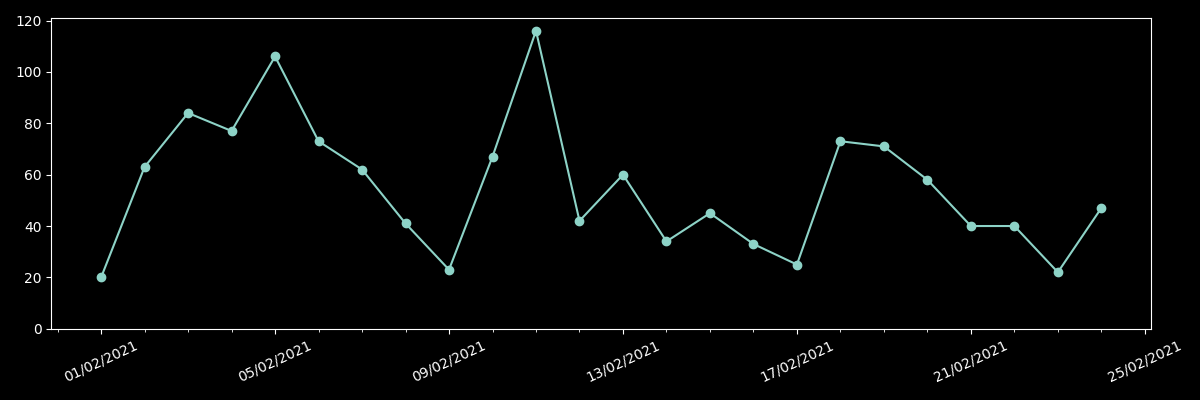
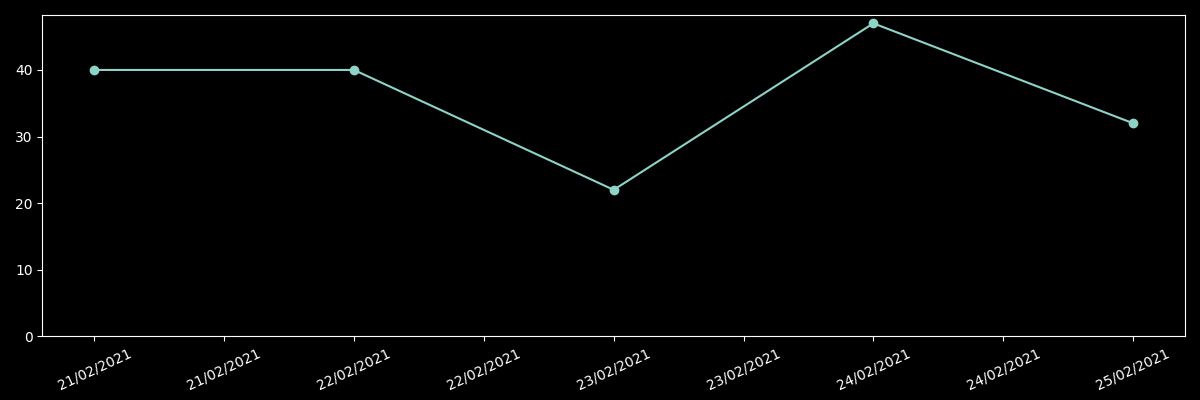
Almost done with counties

diff --git a/templates/datasearchcounty.html b/templates/datasearchcounty.html
@@ -5,6 +5,71 @@
 {% endblock %}
 
 {% block body %}
+<script>
+    var countiesByState = {
+        AL: ["Autauga County","Baldwin County","Barbour County","Bibb County","Blount County","Butler County","Calhoun County","Chambers County","Cherokee County","Chilton County","Choctaw County","Clay County","Cleburne County","Coffee County","Colbert County","Covington County","Crenshaw County","Cullman County","Dale County","Dallas County","DeKalb County","Elmore County","Escambia County","Etowah County","Fayette County","Franklin County","Geneva County","Hale County","Houston County","Jackson County","Jefferson County","Lauderdale County","Lawrence County","Lee County","Limestone County","Madison County","Marengo County","Marion County","Marshall County","Mobile County","Monroe County","Montgomery County","Morgan County","Pickens County","Pike County","Randolph County","Russell County","St. Clair County","Shelby County","Talladega County","Tallapoosa County","Tuscaloosa County","Walker County","Washington County","Winston County"],
+        AK: ["Anchorage Municipality","Bethel Census Area","Fairbanks North Star Borough","Kenai Peninsula Borough","Ketchikan Gateway Borough","Matanuska-Susitna Borough","Nome Census Area","Prince of Wales-Hyder Census Area","Sitka City and Borough"],
+        AZ: ["Apache County","Cochise County","Coconino County","Gila County","Graham County","La Paz County","Maricopa County","Mohave County","Navajo County","Pima County","Pinal County","Santa Cruz County","Yavapai County","Yuma County"],
+        AR: ["Arkansas County","Ashley County","Baxter County","Benton County","Boone County","Bradley County","Carroll County","Chicot County","Clark County","Clay County","Cleburne County","Columbia County","Craighead County","Crawford County","Crittenden County","Cross County","Dallas County","Drew County","Faulkner County","Franklin County","Fulton County","Garland County","Grant County","Greene County","Hempstead County","Hot Spring County","Howard County","Independence County","Izard County","Jackson County","Jefferson County","Johnson County","Lawrence County","Lincoln County","Little River County","Logan County","Lonoke County","Marion County","Miller County","Mississippi County","Montgomery County","Nevada County","Newton County","Ouachita County","Perry County","Phillips County","Poinsett County","Polk County","Pope County","Pulaski County","Randolph County","Saline County","Scott County","Searcy County","Sebastian County","Sharp County","Stone County","Union County","Washington County","White County","Yell County"],
+        CA: ["Alameda County","Amador County","Butte County","Calaveras County","Colusa County","Contra Costa County","El Dorado County","Fresno County","Glenn County","Humboldt County","Imperial County","Inyo County","Kern County","Kings County","Lake County","Lassen County","Los Angeles County","Madera County","Marin County","Mendocino County","Merced County","Monterey County","Napa County","Nevada County","Orange County","Placer County","Riverside County","Sacramento County","San Benito County","San Bernardino County","San Diego County","San Francisco County","San Joaquin County","San Luis Obispo County","San Mateo County","Santa Barbara County","Santa Clara County","Santa Cruz County","Shasta County","Siskiyou County","Solano County","Sonoma County","Stanislaus County","Sutter County","Tehama County","Tulare County","Tuolumne County","Ventura County","Yolo County","Yuba County"],
+        CO: ["Adams County","Alamosa County","Arapahoe County","Bent County","Boulder County","Broomfield County","Chaffee County","Delta County","Denver County","Douglas County","El Paso County","Fremont County","Garfield County","Huerfano County","Jefferson County","La Plata County","Larimer County","Logan County","Mesa County","Moffat County","Montrose County","Morgan County","Otero County","Prowers County","Pueblo County","Routt County","Weld County","Yuma County"],
+        CT: ["Fairfield County","Hartford County","Litchfield County","Middlesex County","New Haven County","New London County","Tolland County","Windham County"],
+        DE: ["Kent County","New Castle County","Sussex County"],
+        DC: ["District of Columbia"],
+        FL: ["Alachua County","Baker County","Bay County","Brevard County","Broward County","Calhoun County","Charlotte County","Citrus County","Clay County","Collier County","Columbia County","DeSoto County","Dixie County","Duval County","Escambia County","Flagler County","Franklin County","Hendry County","Hernando County","Highlands County","Hillsborough County","Holmes County","Indian River County","Jackson County","Lake County","Lee County","Leon County","Levy County","Madison County","Manatee County","Marion County","Martin County","Miami-Dade County","Monroe County","Nassau County","Okaloosa County","Okeechobee County","Orange County","Osceola County","Palm Beach County","Pasco County","Pinellas County","Polk County","Putnam County","St. Johns County","St. Lucie County","Santa Rosa County","Sarasota County","Seminole County","Sumter County","Suwannee County","Union County","Volusia County","Walton County","Washington County"],
+        GA: ["Appling County","Bacon County","Baldwin County","Barrow County","Bartow County","Ben Hill County","Berrien County","Bibb County","Bleckley County","Brooks County","Bulloch County","Burke County","Butts County","Camden County","Candler County","Carroll County","Catoosa County","Chatham County","Cherokee County","Clarke County","Clayton County","Cobb County","Coffee County","Colquitt County","Columbia County","Cook County","Coweta County","Crisp County","Decatur County","DeKalb County","Dodge County","Dougherty County","Douglas County","Early County","Effingham County","Elbert County","Emanuel County","Evans County","Fannin County","Fayette County","Floyd County","Forsyth County","Franklin County","Fulton County","Gilmer County","Glynn County","Gordon County","Grady County","Greene County","Gwinnett County","Habersham County","Hall County","Hancock County","Hart County","Henry County","Houston County","Jackson County","Jasper County","Jeff Davis County","Jefferson County","Jenkins County","Johnson County","Lamar County","Lanier County","Laurens County","Liberty County","Lowndes County","Lumpkin County","McDuffie County","Meriwether County","Mitchell County","Monroe County","Murray County","Muscogee County","Newton County","Oconee County","Paulding County","Peach County","Pickens County","Pike County","Polk County","Pulaski County","Putnam County","Rabun County","Richmond County","Rockdale County","Spalding County","Stephens County","Sumter County","Tattnall County","Thomas County","Tift County","Toombs County","Towns County","Troup County","Union County","Upson County","Walker County","Walton County","Ware County","Washington County","Wayne County","White County","Whitfield County","Worth County"],
+        HI: ["Hawaii County","Honolulu County","Maui County"],
+        ID: ["Ada County","Bannock County","Bear Lake County","Bingham County","Bonner County","Bonneville County","Camas County","Canyon County","Gem County","Gooding County","Idaho County","Kootenai County","Madison County","Minidoka County","Nez Perce County","Owyhee County","Shoshone County","Twin Falls County","Washington County"],
+        IL: ["Adams County","Bond County","Boone County","Bureau County","Carroll County","Cass County","Champaign County","Christian County","Clark County","Clay County","Clinton County","Coles County","Cook County","Crawford County","Cumberland County","DeKalb County","De Witt County","DuPage County","Edgar County","Effingham County","Fayette County","Ford County","Franklin County","Fulton County","Greene County","Grundy County","Hamilton County","Hancock County","Henderson County","Henry County","Iroquois County","Jackson County","Jefferson County","Jersey County","Jo Daviess County","Kane County","Kankakee County","Kendall County","Knox County","Lake County","La Salle County","Lawrence County","Lee County","Livingston County","Logan County","McDonough County","McHenry County","McLean County","Macon County","Macoupin County","Madison County","Marion County","Mason County","Massac County","Menard County","Mercer County","Monroe County","Montgomery County","Morgan County","Ogle County","Peoria County","Perry County","Piatt County","Pike County","Randolph County","Richland County","Rock Island County","St. Clair County","Saline County","Sangamon County","Schuyler County","Stark County","Stephenson County","Tazewell County","Union County","Vermilion County","Warren County","Washington County","Wayne County","White County","Whiteside County","Will County","Williamson County","Winnebago County","Woodford County"],
+        IN: ["Adams County","Allen County","Bartholomew County","Blackford County","Boone County","Brown County","Cass County","Clark County","Clay County","Clinton County","Daviess County","Dearborn County","Decatur County","DeKalb County","Delaware County","Dubois County","Elkhart County","Fayette County","Floyd County","Fountain County","Fulton County","Gibson County","Grant County","Greene County","Hamilton County","Hancock County","Harrison County","Hendricks County","Henry County","Howard County","Huntington County","Jackson County","Jasper County","Jefferson County","Jennings County","Johnson County","Knox County","Kosciusko County","LaGrange County","Lake County","LaPorte County","Lawrence County","Madison County","Marion County","Marshall County","Martin County","Miami County","Monroe County","Montgomery County","Morgan County","Newton County","Noble County","Orange County","Owen County","Perry County","Pike County","Porter County","Pulaski County","Putnam County","Randolph County","Ripley County","St. Joseph County","Scott County","Shelby County","Starke County","Steuben County","Sullivan County","Tippecanoe County","Tipton County","Union County","Vanderburgh County","Vermillion County","Vigo County","Wabash County","Warrick County","Wayne County","Wells County","White County","Whitley County"],
+        IA: ["Adair County","Allamakee County","Appanoose County","Benton County","Black Hawk County","Boone County","Bremer County","Buchanan County","Buena Vista County","Butler County","Carroll County","Cass County","Cerro Gordo County","Cherokee County","Chickasaw County","Clarke County","Clay County","Clayton County","Clinton County","Crawford County","Dallas County","Davis County","Delaware County","Des Moines County","Dickinson County","Dubuque County","Emmet County","Fayette County","Floyd County","Franklin County","Grundy County","Guthrie County","Hamilton County","Hancock County","Hardin County","Harrison County","Henry County","Howard County","Humboldt County","Ida County","Iowa County","Jackson County","Jasper County","Jefferson County","Johnson County","Jones County","Keokuk County","Kossuth County","Lee County","Linn County","Louisa County","Lucas County","Lyon County","Madison County","Mahaska County","Marion County","Marshall County","Mitchell County","Monona County","Monroe County","Montgomery County","Muscatine County","O'Brien County","Page County","Palo Alto County","Plymouth County","Pocahontas County","Polk County","Pottawattamie County","Poweshiek County","Ringgold County","Sac County","Scott County","Shelby County","Sioux County","Story County","Tama County","Union County","Van Buren County","Wapello County","Warren County","Washington County","Wayne County","Webster County","Winnebago County","Winneshiek County","Woodbury County","Wright County"],
+        KS: ["Barton County","Brown County","Butler County","Cherokee County","Clay County","Cloud County","Cowley County","Crawford County","Dickinson County","Doniphan County","Douglas County","Ellis County","Ellsworth County","Finney County","Ford County","Franklin County","Geary County","Gove County","Harper County","Harvey County","Jefferson County","Jewell County","Johnson County","Kearny County","Labette County","Leavenworth County","Lincoln County","Lyon County","McPherson County","Marshall County","Miami County","Mitchell County","Montgomery County","Morris County","Nemaha County","Neosho County","Ness County","Norton County","Phillips County","Pottawatomie County","Pratt County","Reno County","Riley County","Rooks County","Russell County","Saline County","Scott County","Sedgwick County","Seward County","Shawnee County","Sumner County","Thomas County","Wyandotte County"],
+        KY: ["Allen County","Barren County","Bell County","Boone County","Boyd County","Boyle County","Breathitt County","Bullitt County","Caldwell County","Calloway County","Campbell County","Casey County","Christian County","Clark County","Clay County","Clinton County","Daviess County","Elliott County","Fayette County","Floyd County","Franklin County","Garrard County","Graves County","Grayson County","Greenup County","Hardin County","Harlan County","Harrison County","Hart County","Henderson County","Hopkins County","Jefferson County","Jessamine County","Kenton County","Knox County","Laurel County","Lawrence County","Lee County","Letcher County","Lewis County","Lincoln County","Livingston County","Logan County","McCracken County","McCreary County","Madison County","Marion County","Marshall County","Mason County","Mercer County","Monroe County","Montgomery County","Muhlenberg County","Nelson County","Nicholas County","Ohio County","Oldham County","Pendleton County","Perry County","Pike County","Pulaski County","Rockcastle County","Rowan County","Russell County","Scott County","Shelby County","Simpson County","Spencer County","Taylor County","Warren County","Washington County","Wayne County","Whitley County"],
+        LA: ["Acadia Parish","Allen Parish","Ascension Parish","Avoyelles Parish","Beauregard Parish","Bienville Parish","Bossier Parish","Caddo Parish","Calcasieu Parish","Claiborne Parish","Concordia Parish","De Soto Parish","East Baton Rouge Parish","East Feliciana Parish","Evangeline Parish","Franklin Parish","Grant Parish","Iberia Parish","Iberville Parish","Jefferson Parish","Jefferson Davis Parish","Lafayette Parish","Lafourche Parish","La Salle Parish","Lincoln Parish","Livingston Parish","Morehouse Parish","Natchitoches Parish","Orleans Parish","Ouachita Parish","Pointe Coupee Parish","Rapides Parish","Red River Parish","Sabine Parish","St. Bernard Parish","St. Charles Parish","St. James Parish","St. John the Baptist Parish","St. Landry Parish","St. Martin Parish","St. Mary Parish","St. Tammany Parish","Tangipahoa Parish","Terrebonne Parish","Union Parish","Vermilion Parish","Vernon Parish","Washington Parish","Webster Parish","West Carroll Parish","Winn Parish"],
+        ME: ["Androscoggin County","Aroostook County","Cumberland County","Franklin County","Hancock County","Kennebec County","Lincoln County","Oxford County","Penobscot County","Somerset County","Waldo County","York County"],
+        MD: ["Allegany County","Anne Arundel County","Baltimore County","Calvert County","Caroline County","Carroll County","Cecil County","Charles County","Dorchester County","Frederick County","Garrett County","Harford County","Howard County","Kent County","Montgomery County","Prince George's County","St. Mary's County","Talbot County","Washington County","Wicomico County","Worcester County","Baltimore city"],
+        MA: ["Barnstable County","Berkshire County","Bristol County","Essex County","Franklin County","Hampden County","Hampshire County","Middlesex County","Norfolk County","Plymouth County","Suffolk County","Worcester County"],
+        MI: ["Allegan County","Alpena County","Arenac County","Baraga County","Barry County","Bay County","Benzie County","Berrien County","Branch County","Calhoun County","Cass County","Cheboygan County","Chippewa County","Clare County","Clinton County","Crawford County","Delta County","Dickinson County","Eaton County","Emmet County","Genesee County","Gladwin County","Gogebic County","Grand Traverse County","Gratiot County","Hillsdale County","Houghton County","Huron County","Ingham County","Ionia County","Iosco County","Iron County","Isabella County","Jackson County","Kalamazoo County","Kalkaska County","Kent County","Lapeer County","Lenawee County","Livingston County","Macomb County","Manistee County","Marquette County","Mason County","Mecosta County","Menominee County","Midland County","Monroe County","Montcalm County","Muskegon County","Newaygo County","Oakland County","Oceana County","Ogemaw County","Ontonagon County","Otsego County","Ottawa County","Presque Isle County","Roscommon County","Saginaw County","St. Clair County","St. Joseph County","Sanilac County","Shiawassee County","Tuscola County","Van Buren County","Washtenaw County","Wayne County","Wexford County"],
+        MN: ["Aitkin County","Anoka County","Becker County","Beltrami County","Benton County","Blue Earth County","Brown County","Carlton County","Carver County","Chippewa County","Chisago County","Clay County","Cook County","Cottonwood County","Crow Wing County","Dakota County","Douglas County","Faribault County","Freeborn County","Goodhue County","Hennepin County","Hubbard County","Isanti County","Itasca County","Kanabec County","Kandiyohi County","Kittson County","Lac qui Parle County","Lake County","Lake of the Woods County","Lyon County","McLeod County","Martin County","Meeker County","Mille Lacs County","Morrison County","Mower County","Nicollet County","Nobles County","Olmsted County","Otter Tail County","Pennington County","Pine County","Pipestone County","Polk County","Ramsey County","Redwood County","Renville County","Rice County","Rock County","Roseau County","St. Louis County","Scott County","Sherburne County","Stearns County","Swift County","Todd County","Wabasha County","Wadena County","Waseca County","Washington County","Winona County","Wright County","Yellow Medicine County"],
+        MS: ["Adams County","Alcorn County","Amite County","Attala County","Bolivar County","Calhoun County","Chickasaw County","Claiborne County","Clarke County","Clay County","Coahoma County","Copiah County","Covington County","DeSoto County","Forrest County","Franklin County","George County","Grenada County","Hancock County","Harrison County","Hinds County","Holmes County","Itawamba County","Jackson County","Jones County","Lafayette County","Lamar County","Lauderdale County","Lawrence County","Leake County","Lee County","Leflore County","Lincoln County","Lowndes County","Madison County","Marion County","Marshall County","Monroe County","Montgomery County","Neshoba County","Oktibbeha County","Panola County","Pearl River County","Pike County","Pontotoc County","Prentiss County","Rankin County","Scott County","Sharkey County","Simpson County","Sunflower County","Tallahatchie County","Tate County","Tippah County","Tishomingo County","Union County","Warren County","Washington County","Wayne County","Webster County","Wilkinson County","Winston County","Yazoo County"],
+        MO: ["Adair County","Andrew County","Audrain County","Barry County","Bates County","Benton County","Boone County","Buchanan County","Butler County","Callaway County","Camden County","Cape Girardeau County","Carroll County","Cass County","Chariton County","Christian County","Clark County","Clay County","Clinton County","Cole County","Cooper County","Crawford County","Dade County","Dallas County","Dent County","Douglas County","Dunklin County","Franklin County","Gasconade County","Gentry County","Greene County","Grundy County","Harrison County","Henry County","Hickory County","Howell County","Jackson County","Jasper County","Jefferson County","Johnson County","Laclede County","Lafayette County","Lawrence County","Lincoln County","Linn County","Livingston County","Macon County","Madison County","Marion County","Miller County","Monroe County","Montgomery County","Morgan County","New Madrid County","Newton County","Nodaway County","Oregon County","Ozark County","Pemiscot County","Perry County","Pettis County","Phelps County","Platte County","Polk County","Pulaski County","Randolph County","Reynolds County","St. Charles County","St. Clair County","St. Francois County","St. Louis County","Saline County","Schuyler County","Scotland County","Scott County","Stoddard County","Taney County","Texas County","Vernon County","Warren County","Wayne County","Webster County","Wright County","St. Louis city"],
+        MT: ["Cascade County","Custer County","Dawson County","Deer Lodge County","Fergus County","Flathead County","Gallatin County","Glacier County","Hill County","Lake County","Lewis and Clark County","Mineral County","Missoula County","Phillips County","Ravalli County","Roosevelt County","Silver Bow County","Valley County","Yellowstone County"],
+        NE: ["Adams County","Buffalo County","Cedar County","Cheyenne County","Clay County","Cuming County","Dakota County","Dawes County","Dawson County","Dodge County","Douglas County","Fillmore County","Franklin County","Gage County","Hall County","Hamilton County","Holt County","Howard County","Lancaster County","Lincoln County","Madison County","Morrill County","Nemaha County","Nuckolls County","Perkins County","Phelps County","Pierce County","Platte County","Polk County","Red Willow County","Richardson County","Sarpy County","Scotts Bluff County","Seward County","Sheridan County","Washington County"],
+        NV: ["Churchill County","Clark County","Douglas County","Elko County","Lyon County","Nye County","Washoe County","Carson City"],
+        NH: ["Belknap County","Cheshire County","Coos County","Grafton County","Hillsborough County","Merrimack County","Rockingham County","Strafford County","Sullivan County"],
+        NJ: ["Atlantic County","Bergen County","Burlington County","Camden County","Cape May County","Cumberland County","Essex County","Gloucester County","Hudson County","Hunterdon County","Mercer County","Middlesex County","Monmouth County","Morris County","Ocean County","Passaic County","Salem County","Somerset County","Sussex County","Union County","Warren County"],
+        NM: ["Bernalillo County","Chaves County","Cibola County","Colfax County","Curry County","Dona Ana County","Eddy County","Grant County","Hidalgo County","Lea County","Lincoln County","Luna County","McKinley County","Otero County","Rio Arriba County","Roosevelt County","Sandoval County","San Juan County","Santa Fe County","Sierra County","Socorro County","Taos County","Valencia County"],
+        NY: ["Albany County","Allegany County","Bronx County","Broome County","Cattaraugus County","Cayuga County","Chautauqua County","Chemung County","Chenango County","Clinton County","Columbia County","Cortland County","Delaware County","Dutchess County","Erie County","Essex County","Franklin County","Fulton County","Genesee County","Greene County","Herkimer County","Jefferson County","Kings County","Lewis County","Livingston County","Madison County","Monroe County","Montgomery County","Nassau County","New York County","Niagara County","Oneida County","Onondaga County","Ontario County","Orange County","Orleans County","Oswego County","Otsego County","Putnam County","Queens County","Rensselaer County","Richmond County","Rockland County","St. Lawrence County","Saratoga County","Schenectady County","Seneca County","Steuben County","Suffolk County","Sullivan County","Tioga County","Tompkins County","Ulster County","Warren County","Washington County","Wayne County","Westchester County","Wyoming County","Yates County"],
+        NC: ["Alamance County","Alleghany County","Ashe County","Beaufort County","Bertie County","Brunswick County","Buncombe County","Burke County","Cabarrus County","Caldwell County","Camden County","Carteret County","Catawba County","Chatham County","Cherokee County","Chowan County","Clay County","Cleveland County","Columbus County","Craven County","Cumberland County","Currituck County","Davidson County","Duplin County","Durham County","Edgecombe County","Forsyth County","Franklin County","Gaston County","Granville County","Guilford County","Halifax County","Harnett County","Haywood County","Henderson County","Hertford County","Hoke County","Iredell County","Johnston County","Lee County","Lenoir County","Lincoln County","McDowell County","Mecklenburg County","Moore County","Nash County","New Hanover County","Onslow County","Orange County","Pasquotank County","Pitt County","Randolph County","Richmond County","Robeson County","Rockingham County","Rowan County","Rutherford County","Sampson County","Scotland County","Stanly County","Surry County","Swain County","Union County","Vance County","Wake County","Watauga County","Wayne County","Wilkes County","Wilson County","Yadkin County","Yancey County"],
+        ND: ["Adams County","Barnes County","Bottineau County","Burke County","Burleigh County","Cass County","Dickey County","Divide County","Foster County","Grand Forks County","Grant County","LaMoure County","McHenry County","McLean County","Morton County","Mountrail County","Nelson County","Pembina County","Pierce County","Ramsey County","Ransom County","Renville County","Stark County","Stutsman County","Traill County","Walsh County","Ward County","Williams County"],
+        OH: ["Adams County","Allen County","Ashland County","Ashtabula County","Athens County","Auglaize County","Belmont County","Brown County","Butler County","Champaign County","Clark County","Clermont County","Clinton County","Columbiana County","Coshocton County","Crawford County","Cuyahoga County","Darke County","Defiance County","Delaware County","Erie County","Fairfield County","Fayette County","Franklin County","Fulton County","Gallia County","Geauga County","Greene County","Guernsey County","Hamilton County","Hancock County","Hardin County","Harrison County","Henry County","Highland County","Hocking County","Holmes County","Huron County","Jackson County","Jefferson County","Knox County","Lake County","Lawrence County","Licking County","Logan County","Lorain County","Lucas County","Madison County","Mahoning County","Marion County","Medina County","Meigs County","Mercer County","Miami County","Monroe County","Montgomery County","Morgan County","Morrow County","Muskingum County","Noble County","Ottawa County","Paulding County","Perry County","Pickaway County","Portage County","Preble County","Putnam County","Richland County","Ross County","Sandusky County","Scioto County","Seneca County","Shelby County","Stark County","Summit County","Trumbull County","Tuscarawas County","Union County","Van Wert County","Warren County","Washington County","Wayne County","Williams County","Wood County","Wyandot County"],
+        OK: ["Adair County","Atoka County","Beckham County","Blaine County","Bryan County","Caddo County","Canadian County","Carter County","Cherokee County","Choctaw County","Cleveland County","Comanche County","Craig County","Creek County","Custer County","Delaware County","Dewey County","Garfield County","Garvin County","Grady County","Hughes County","Jackson County","Johnston County","Kay County","Kingfisher County","Kiowa County","Le Flore County","Lincoln County","Logan County","Love County","McClain County","McCurtain County","McIntosh County","Major County","Mayes County","Murray County","Muskogee County","Oklahoma County","Okmulgee County","Osage County","Ottawa County","Pawnee County","Payne County","Pittsburg County","Pontotoc County","Pottawatomie County","Pushmataha County","Rogers County","Seminole County","Sequoyah County","Stephens County","Texas County","Tillman County","Tulsa County","Wagoner County","Washington County","Washita County","Woods County","Woodward County"],
+        OR: ["Benton County","Clackamas County","Coos County","Deschutes County","Douglas County","Hood River County","Jackson County","Josephine County","Klamath County","Lane County","Lincoln County","Linn County","Malheur County","Marion County","Multnomah County","Polk County","Umatilla County","Union County","Wasco County","Washington County","Yamhill County"],
+        PA: ["Adams County","Allegheny County","Armstrong County","Beaver County","Bedford County","Berks County","Blair County","Bradford County","Bucks County","Butler County","Cambria County","Carbon County","Centre County","Chester County","Clarion County","Clearfield County","Clinton County","Columbia County","Crawford County","Cumberland County","Dauphin County","Delaware County","Elk County","Erie County","Fayette County","Forest County","Franklin County","Greene County","Huntingdon County","Indiana County","Jefferson County","Juniata County","Lackawanna County","Lancaster County","Lawrence County","Lebanon County","Lehigh County","Luzerne County","Lycoming County","McKean County","Mercer County","Mifflin County","Monroe County","Montgomery County","Montour County","Northampton County","Northumberland County","Perry County","Philadelphia County","Pike County","Potter County","Schuylkill County","Snyder County","Somerset County","Sullivan County","Susquehanna County","Tioga County","Union County","Venango County","Warren County","Washington County","Wayne County","Westmoreland County","Wyoming County","York County"],
+        RI: ["Bristol County","Kent County","Newport County","Providence County","Washington County"],
+        SC: ["Abbeville County","Aiken County","Anderson County","Barnwell County","Beaufort County","Berkeley County","Calhoun County","Charleston County","Cherokee County","Chester County","Chesterfield County","Clarendon County","Colleton County","Darlington County","Dillon County","Dorchester County","Fairfield County","Florence County","Georgetown County","Greenville County","Greenwood County","Hampton County","Horry County","Jasper County","Kershaw County","Lancaster County","Laurens County","Lee County","Lexington County","Marion County","Newberry County","Oconee County","Orangeburg County","Pickens County","Richland County","Saluda County","Spartanburg County","Sumter County","Union County","Williamsburg County","York County"],
+        SD: ["Beadle County","Bon Homme County","Brookings County","Brown County","Butte County","Codington County","Davison County","Day County","Grant County","Gregory County","Hamlin County","Hughes County","Hutchinson County","Jerauld County","Lake County","Lawrence County","Lincoln County","McCook County","Meade County","Minnehaha County","Moody County","Pennington County","Roberts County","Spink County","Turner County","Walworth County","Yankton County"],
+        TN: ["Anderson County","Bedford County","Benton County","Blount County","Bradley County","Campbell County","Cannon County","Carroll County","Carter County","Cheatham County","Chester County","Claiborne County","Clay County","Cocke County","Coffee County","Crockett County","Cumberland County","Davidson County","DeKalb County","Dickson County","Dyer County","Fayette County","Fentress County","Franklin County","Gibson County","Giles County","Grainger County","Greene County","Hamblen County","Hamilton County","Hardeman County","Hardin County","Hawkins County","Haywood County","Henderson County","Henry County","Jefferson County","Johnson County","Knox County","Lawrence County","Lewis County","Lincoln County","Loudon County","McMinn County","McNairy County","Macon County","Madison County","Marion County","Marshall County","Maury County","Monroe County","Montgomery County","Obion County","Overton County","Perry County","Putnam County","Rhea County","Roane County","Robertson County","Rutherford County","Scott County","Sequatchie County","Sevier County","Shelby County","Smith County","Stewart County","Sullivan County","Sumner County","Tipton County","Unicoi County","Warren County","Washington County","Weakley County","White County","Williamson County","Wilson County"],
+        TX: ["Anderson County","Andrews County","Angelina County","Atascosa County","Bastrop County","Bee County","Bell County","Bexar County","Bowie County","Brazoria County","Brazos County","Brown County","Burnet County","Caldwell County","Calhoun County","Callahan County","Cameron County","Camp County","Cass County","Castro County","Chambers County","Cherokee County","Coleman County","Collin County","Colorado County","Comal County","Comanche County","Cooke County","Coryell County","Crane County","Dallas County","Dawson County","Deaf Smith County","Denton County","DeWitt County","Eastland County","Ector County","Ellis County","El Paso County","Erath County","Fannin County","Fayette County","Fisher County","Floyd County","Fort Bend County","Freestone County","Frio County","Galveston County","Gillespie County","Gonzales County","Gray County","Grayson County","Gregg County","Grimes County","Guadalupe County","Hale County","Hamilton County","Hardin County","Harris County","Harrison County","Haskell County","Hays County","Henderson County","Hidalgo County","Hill County","Hockley County","Hood County","Hopkins County","Houston County","Howard County","Hunt County","Hutchinson County","Jasper County","Jefferson County","Jim Wells County","Johnson County","Jones County","Karnes County","Kaufman County","Kendall County","Kerr County","Kleberg County","Knox County","Lamar County","Lamb County","Lavaca County","Lee County","Liberty County","Limestone County","Llano County","Lubbock County","McLennan County","Matagorda County","Maverick County","Medina County","Midland County","Milam County","Montague County","Montgomery County","Moore County","Nacogdoches County","Navarro County","Newton County","Nolan County","Nueces County","Ochiltree County","Orange County","Palo Pinto County","Panola County","Parker County","Parmer County","Polk County","Potter County","Randall County","Reeves County","Robertson County","Rockwall County","Runnels County","Rusk County","Sabine County","San Augustine County","San Patricio County","Scurry County","Smith County","Somervell County","Starr County","Tarrant County","Taylor County","Terry County","Titus County","Tom Green County","Travis County","Tyler County","Upshur County","Uvalde County","Val Verde County","Van Zandt County","Victoria County","Walker County","Waller County","Washington County","Webb County","Wharton County","Wichita County","Wilbarger County","Williamson County","Wilson County","Wise County","Wood County","Young County"],
+        UT: ["Box Elder County","Cache County","Davis County","Grand County","Iron County","Salt Lake County","San Juan County","Tooele County","Uintah County","Utah County","Washington County","Weber County"],
+        VT: ["Chittenden County","Franklin County","Washington County"],
+        VA: ["Accomack County","Albemarle County","Alleghany County","Amelia County","Amherst County","Arlington County","Augusta County","Bedford County","Buchanan County","Campbell County","Caroline County","Carroll County","Chesterfield County","Culpeper County","Fairfax County","Fauquier County","Floyd County","Franklin County","Frederick County","Gloucester County","Grayson County","Halifax County","Hanover County","Henrico County","Henry County","Isle of Wight County","James City County","Lee County","Loudoun County","Mecklenburg County","Middlesex County","Montgomery County","Northampton County","Nottoway County","Page County","Patrick County","Pittsylvania County","Powhatan County","Prince Edward County","Prince William County","Pulaski County","Roanoke County","Rockbridge County","Rockingham County","Scott County","Shenandoah County","Smyth County","Southampton County","Spotsylvania County","Stafford County","Tazewell County","Warren County","Washington County","Wise County","Wythe County","York County","Alexandria city","Bristol city","Buena Vista city","Charlottesville city","Chesapeake city","Colonial Heights city","Danville city","Emporia city","Fairfax city","Franklin city","Fredericksburg city","Galax city","Hampton city","Harrisonburg city","Hopewell city","Lexington city","Lynchburg city","Manassas city","Martinsville city","Newport News city","Norfolk city","Petersburg city","Portsmouth city","Radford city","Richmond city","Roanoke city","Salem city","Staunton city","Suffolk city","Virginia Beach city","Waynesboro city","Winchester city"],
+        WA: ["Asotin County","Benton County","Chelan County","Clark County","Cowlitz County","Franklin County","Grant County","Grays Harbor County","Island County","King County","Kitsap County","Kittitas County","Lewis County","Mason County","Okanogan County","Pierce County","San Juan County","Skagit County","Snohomish County","Spokane County","Stevens County","Thurston County","Walla Walla County","Whatcom County","Whitman County","Yakima County"],
+        WV: ["Berkeley County","Boone County","Brooke County","Cabell County","Calhoun County","Clay County","Fayette County","Grant County","Greenbrier County","Hampshire County","Hancock County","Harrison County","Jackson County","Jefferson County","Kanawha County","Lincoln County","Logan County","Marshall County","Mason County","Mercer County","Mineral County","Monongalia County","Nicholas County","Ohio County","Preston County","Putnam County","Raleigh County","Randolph County","Taylor County","Upshur County","Wayne County","Webster County","Wetzel County","Wood County"],
+        WI: ["Ashland County","Barron County","Brown County","Buffalo County","Burnett County","Calumet County","Chippewa County","Clark County","Columbia County","Dane County","Dodge County","Door County","Douglas County","Dunn County","Eau Claire County","Fond du Lac County","Grant County","Green County","Green Lake County","Iowa County","Iron County","Jackson County","Jefferson County","Juneau County","Kenosha County","Kewaunee County","La Crosse County","Langlade County","Lincoln County","Manitowoc County","Marathon County","Marinette County","Marquette County","Milwaukee County","Monroe County","Oconto County","Oneida County","Outagamie County","Ozaukee County","Pierce County","Polk County","Portage County","Racine County","Richland County","Rock County","Rusk County","St. Croix County","Sauk County","Sawyer County","Shawano County","Sheboygan County","Taylor County","Trempealeau County","Vernon County","Vilas County","Walworth County","Washburn County","Washington County","Waukesha County","Waupaca County","Winnebago County","Wood County"],
+        WY: ["Albany County","Big Horn County","Campbell County","Converse County","Fremont County","Goshen County","Laramie County","Natrona County","Park County","Sheridan County","Sweetwater County","Washakie County"]
+    }
+    function change(value) {
+        if (value.length == 0) document.getElementById("county").innerHTML = "<option></option>";
+        else {
+            var countyOptions = "";
+            for (countyId in countiesByState[value]) {
+                countyOptions += "<option>" + countiesByState[value][countyId] + "</option>";
+            }
+            document.getElementById("county").innerHTML = countyOptions;
+        }
+    }
+</script>
 <br>
 <br>
 <h1 style="color: white; text-shadow: black 0px 0px 10px;">Help Yourself.</h1>
@@ -14,7 +79,9 @@
     method="POST">
     <div class="form-group">
         <label for="state_name">Select State</label>
-        <select class="form-control" id="state_name" name="state_name" value="{{ request.form['state_name'] }}">
+        <select class="form-control" id="state_name" name="state_name" value="{{ request.form['state_name'] }}"
+            onChange="change(this.value);" required>
+            <option value="" disabled selected>Select</option>
             <option value="AL"> Alabama </option>
             <option value="AK"> Alaska </option>
             <option value="AZ"> Arizona </option>
@@ -68,6 +135,12 @@
             <option value="WY"> Wyoming </option>
         </select>
     </div>
+    <div class="form-group">
+        <label for="county">Select County</label>
+        <select class="form-control" name="county" id="county">
+            <option value="" disabled selected>Select</option>
+        </select>
+    </div>
     <!--
     <div class="form-group">
         <label for="shuffle">Order By</label>
@@ -79,7 +152,7 @@
             <option value="new_death"> New Deaths </option>
         </select>
     </div>
-    -->
+-->
     <div class="form-group">
         <label for="daterange">Date Range</label><br>
         <input class="form-control" type="text" name="daterange" placeholder="YYYY-MM-DD to YYYY-MM-DD" required>
@@ -94,40 +167,13 @@
 
 
 {% if post %}
-<!--
-<div id="carouselExampleControls" class="carousel slide" data-ride="carousel">
-    <div class="carousel-inner">
-        <div class="carousel-item active">
-            <h1 style="color: white; text-shadow: black 0px 0px 10px; text-align: center;">New Cases</h1>
-            <img style="border-radius: 10px;" class="d-block w-100"
-                src="{{ url_for('static', filename='newCases.png') }}" alt="New Cases">
-        </div>
-        <div class="carousel-item">
-            <h1 style="color: white; text-shadow: black 0px 0px 10px; text-align: center;">New Deaths</h1>
-            <img style="border-radius: 10px;" class="d-block w-100"
-                src="{{ url_for('static', filename='newDeaths.png') }}" alt="New Deaths">
-        </div>
-        <div class="carousel-item">
-            <h1 style="color: white; text-shadow: black 0px 0px 10px; text-align: center;">Total Cases</h1>
-            <img style="border-radius: 10px;" class="d-block w-100"
-                src="{{ url_for('static', filename='totalCases.png') }}" alt="Total Cases">
-        </div>
-        <div class="carousel-item">
-            <h1 style="color: white; text-shadow: black 0px 0px 10px; text-align: center;">Total Deaths</h1>
-            <img style="border-radius: 10px;" class="d-block w-100"
-                src="{{ url_for('static', filename='totalDeaths.png') }}" alt="Total Deaths">
-        </div>
-    </div>
-    <a class="carousel-control-prev" href="#carouselExampleControls" role="button" data-slide="prev">
-        <span class="carousel-control-prev-icon" aria-hidden="true"></span>
-        <span class="sr-only">Previous</span>
-    </a>
-    <a class="carousel-control-next" href="#carouselExampleControls" role="button" data-slide="next">
-        <span class="carousel-control-next-icon" aria-hidden="true"></span>
-        <span class="sr-only">Next</span>
-    </a>
+
+<div>
+    <h1 style="color: white; text-shadow: black 0px 0px 10px; text-align: center;">Total Deaths</h1>
+    <img style="border-radius: 10px;" class="d-block w-100"
+        src="{{ url_for('static', filename='totalDeaths_county.png') }}" alt="Total Deaths County">
 </div>
--->
+
 <br><br><br><br><br>
 <div
     style="overflow-y: scroll; height:350px; background-color: black; border: 5px solid #900000 ; border-radius: 10px;">

diff --git a/main.py b/main.py
@@ -87,14 +87,11 @@ def datafunc2():
     
     if request.method == 'POST':
         state = request.form['state_name']
-        if state != "None":
-            data = getCountyData()
-            data = data[data['state_name'] == state]
-        else:
-            data = getCountyData()
-            pass
+        data = getCountyData()
+        data = data[data['state_name'] == state].reset_index(drop=True)
 
-        #County selection goes here
+        county = request.form['county']
+        data = data[data['county_name'] == county].reset_index(drop=True)
 
         # Getting date range input
         daterange = request.form['daterange']
@@ -104,6 +101,39 @@ def datafunc2():
         # Getting rid of all dates that fall outside of our range in the dataset
         data = data[data.data_as_of >= startDate]
         data = data[data.data_as_of < endDate]
+
+        data[["covid_death"]] = data[["covid_death"]].astype('float')
+        data[["covid_death"]] = data[["covid_death"]].astype('int')
+        data.reset_index(drop=True, inplace=True)
+
+        data = data.rename(columns={"data_as_of": "Date", "state_name": "State", "county_name": "County",
+                                    "covid_death": "Total Covid Deaths"})
+
+        # Here we create python graphs and save them to png files so that they can be displayed on html
+
+        plt.figure(figsize=(12, 4))
+        plt.xticks(rotation=45)
+        plt.style.use('dark_background')
+        plt.tight_layout()
+        plt.plot(data.sort_values('Date', ascending=True).reset_index(
+            drop=True)['Date'], data['Total Covid Deaths'][::-1].astype('int'))
+        plt.savefig('./static/nothing2.png')
+
+        fig, ax = plt.subplots(figsize=(12, 4))
+        plt.xticks(rotation=25)
+        plt.style.use('dark_background')
+        ax.plot(data.sort_values('Date', ascending=True).reset_index(
+            drop=True)['Date'], data['Total Covid Deaths'][::-1].astype('int'))
+        plt.tight_layout()
+        if len(data) > 14 and len(data) < 90:
+            ax.xaxis.set_major_formatter(DateFormatter("%d/%m/%Y"))
+            ax.xaxis.set_minor_locator(plt.MultipleLocator(1))
+        if len(data) >= 90:
+            ax.xaxis.set_major_formatter(DateFormatter("%m/%Y"))
+            ax.xaxis.set_minor_locator(plt.MultipleLocator(1)) 
+        else:
+            ax.xaxis.set_major_formatter(DateFormatter("%d/%m/%Y"))
+        plt.savefig('./static/totalDeaths_county.png')
 
         post = "This is a post"
         return render_template('datasearchcounty.html', dataColumns=data.keys(), dataItems=data.to_numpy(), post=post)
